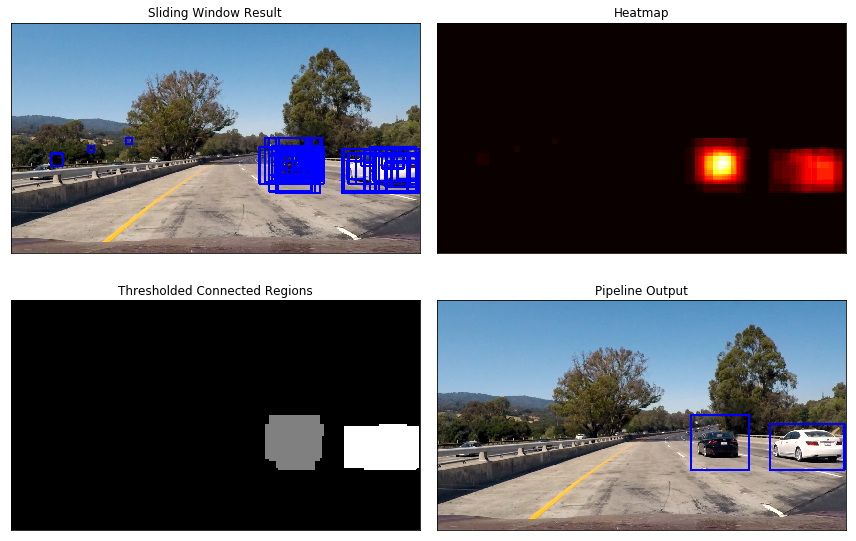
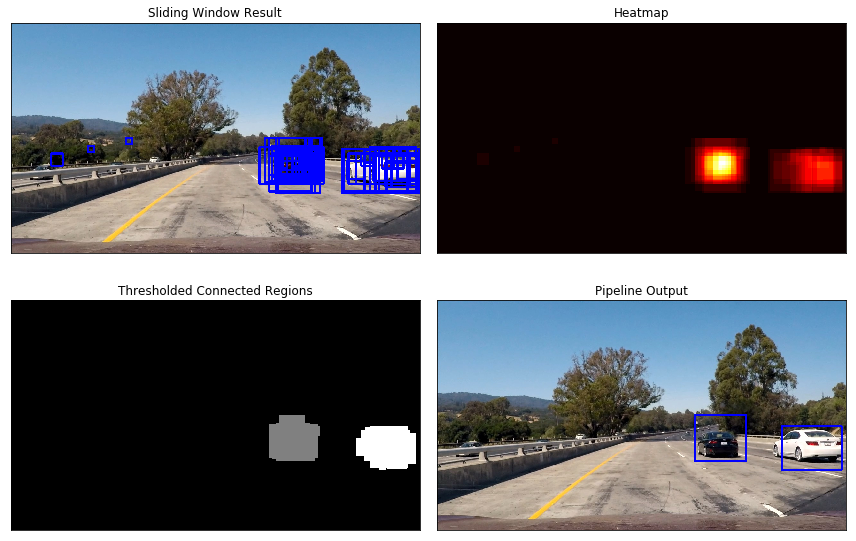
update

diff --git a/DataProcessing/pipeline.py b/DataProcessing/pipeline.py
@@ -52,17 +52,17 @@ def pipeline(img):
     heatmap = np.zeros_like(img[:,:,0]).astype(np.float)
     heatmap = add_heat(heatmap, box_list)
 
-    thresholded = apply_threshold(heatmap, 1)
-    if hasattr(pipeline, 'hist_thresholded'):
-        pipeline.hist_thresholded.append(thresholded)
-        if len(pipeline.hist_thresholded) > 5:
-            pipeline.hist_thresholded.popleft()
+    if hasattr(pipeline, 'hist'):
+        pipeline.hist.append(heatmap)
+        if len(pipeline.hist) > 5:
+            pipeline.hist.popleft()
 
-        l = len(pipeline.hist_thresholded)
-        thresholded = alpha*thresholded + sum((1-alpha)**(l-1-i) * alpha**(i>0) * pipeline.hist_thresholded[i] for i in range(l-1))
-    else:
-        pipeline.hist_thresholded = deque([thresholded])
+        l = len(pipeline.hist)
+        heatmap = alpha*heatmap + sum((1-alpha)**(l-1-i) * alpha**(i>0) * pipeline.hist[i] for i in range(l-1))
+    else: 
+        pipeline.hist = deque([heatmap])
     
+    thresholded = apply_threshold(heatmap, 2)
     labels = label(thresholded)
     #print(labels[1], 'cars found')
     #plt.imshow(labels[0], cmap='gray')

diff --git a/README.md b/README.md
@@ -116,8 +116,9 @@ Below is the result of sliding window searching result over `test1.jpg`.
 Below is the result of the pipeline over the six test images.
 ![][image1]
 I did several experiment to tune the classifier. First of all, as mentioned before, I tried tuning the feature extraction approach and SVM parameter with cross validation and different scoring criterion such as accuracy, roc_auc and f1.  I found accuracy seem to be a more suitable criteria then the rest two.  I also tuned the range of slice heights and
-the threshold of heat map. But it is more of trial and error in both of these cases.  It seems that a threshold of 1
-for the heat map is more robust.
+the threshold of heat map. But it is more of trial and error in both of these cases.  It seems that a threshold of 2
+for the heatmap is more robust. This threshold means that a pixel will only be included in the final bounding box
+if it lies in three or more scanning-detected bounding box.
 
 
 ## Video Implementation
@@ -133,7 +134,7 @@ you can also find it in this [repo](output_videos/project_video.mp4).
 #### 2. Describe how (and identify where in your code) you implemented some kind of filter for false positives and some method for combining overlapping bounding boxes.
 The procedures for rejecting false positives are implemented　in `DataProcessing/pipeline.py`.  The basic idea follows
 the class instructions, first a heatmap is created by counting the number of times individual pixels are found in
-the bounding boxes found by the scanning approach. This followed by thresholding the heatmap at 1
+the bounding boxes found by the scanning approach. This followed by thresholding the heatmap at 2
 and using `label()` imported from `scipy.ndimage.measurements` to find connected regions. These regions are drawn with
 `draw_labeled_bboxes()`, here I also discard bounding boxes that are too small (diagonal distance < 50 pixels), 
 as they are likely to be distant cars (which are less interesting) or false positives.
@@ -141,10 +142,10 @@ as they are likely to be distant cars (which are less interesting) or false posi
 Below is a demonstration of the pipeline of forming heatmap, thresholding and forming connected regions and drawing final boxes:
 ![][image3]
 
-During video processing I also smooth the thresholded image by forming a weighted average of past thresholded images
+During video processing I also smooth the heatmap by forming a weighted average of past heatmaps
 and present one:
 ```python
-thresholded = alpha*thresholded + sum((1-alpha)**(l-1-i) * alpha**(i>0) * pipeline.hist_thresholded[i] for i in range(l-1))
+heatmap = alpha*heatmap+ sum((1-alpha)**(l-1-i) * alpha**(i>0) * pipeline.hist[i] for i in range(l-1))
 ```
 where `alpha = 0.5`.
 
@@ -154,6 +155,17 @@ where `alpha = 0.5`.
 ### Discussion
 
 #### 1. Briefly discuss any problems / issues you faced in your implementation of this project.  Where will your pipeline likely fail?  What could you do to make it more robust?
+
+There are situations that my pipeline will detect trees as cars.  It seems to be a result of color and HOG being similar
+to car at times.  Another case is that when the car is on the very horizontal boundary of the scene and only part of it
+is seen. It seems that some kind of time series prediction procedure for tracking the boundary points of the bounding boxes may help.  Even some kind of extrapolation might help.  Also, when two cars are kind of next to each other in the
+video clip, it can be difficult to separate them.  Finally, my procedure is by far not real time.
+
+I think it might be helpful to use intersection over union to smooth bounding boxes across video frames.
+With this, we could potentially group bounding boxes that belong to the same car and maybe interpolate or remove
+misdetections.  Another useful procedure is maybe use some kind of tracking procedure to track the boundary point.
+Finally, it might be more efficient to use modern procedures that utilize deep learning, such as YOLO (you only look once).
+
 
 
 
